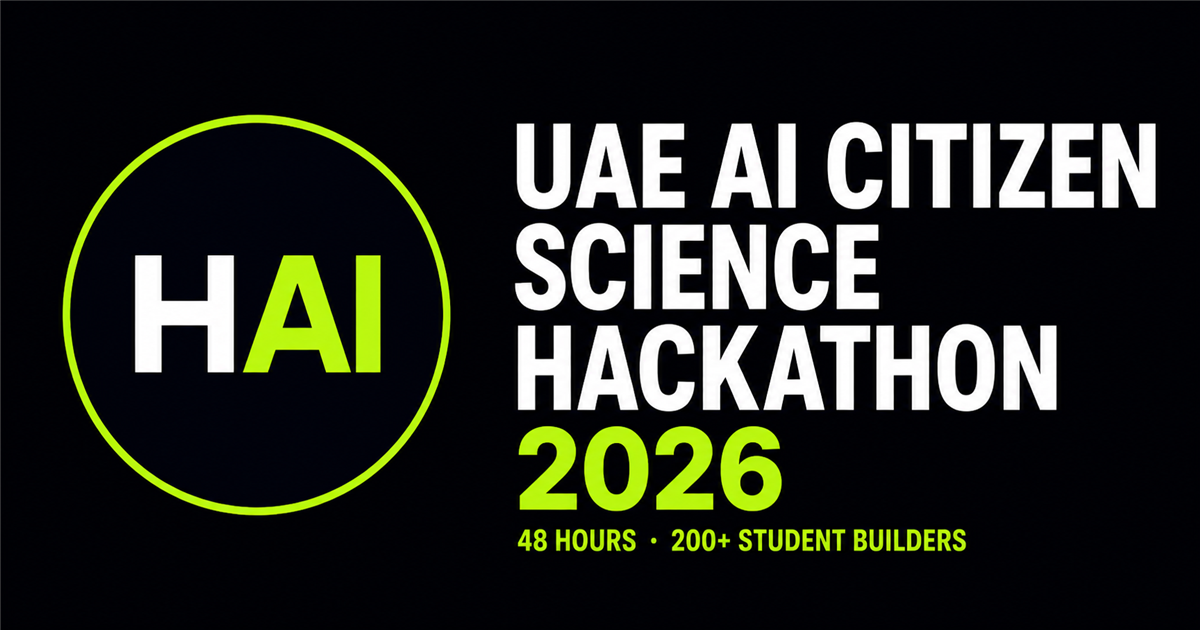
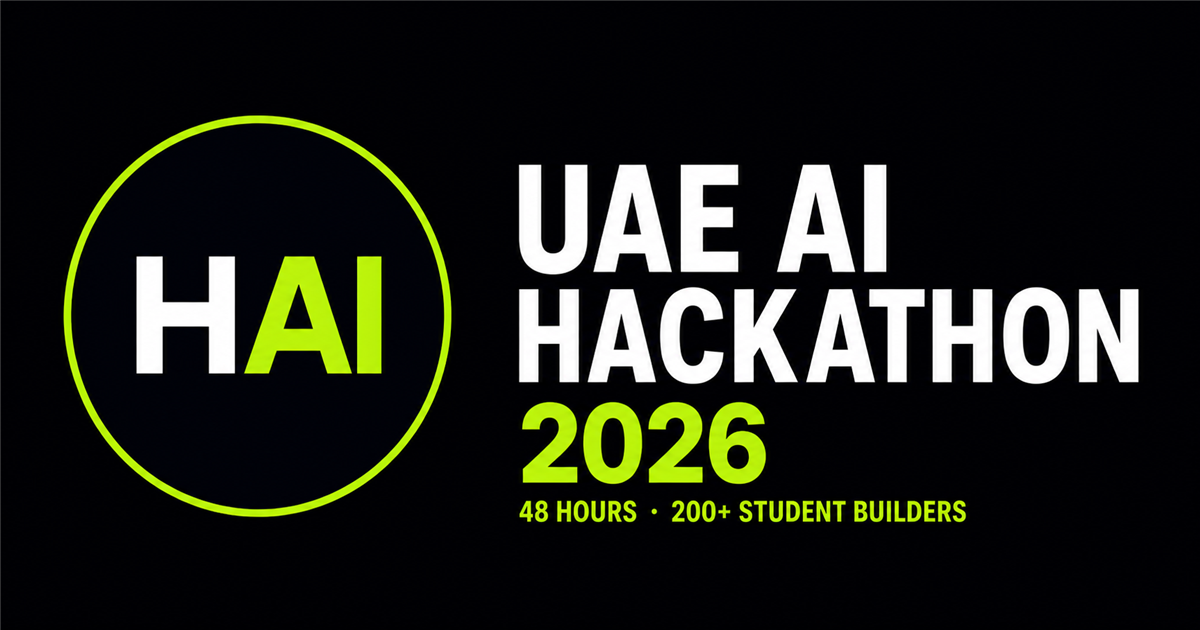
design changes regarding navbar

diff --git a/about.html b/about.html
@@ -4,10 +4,10 @@
   <meta charset="utf-8">
   <meta name="viewport" content="width=device-width,initial-scale=1">
   <title>About | HumAIne.ae</title>
-  <meta name="description" content="Meet the founders behind HumAIne and learn about the team creating the UAE AI Citizen Science Hackathon.">
+  <meta name="description" content="Meet the founders behind HumAIne and learn about the team creating the UAE AI Hackathon.">
   <link rel="canonical" href="https://humaine.ae/about.html">
-  <meta property="og:type" content="website"><meta property="og:title" content="About HumAIne"><meta property="og:description" content="Meet the team behind the UAE AI Citizen Science Hackathon."><meta property="og:image" content="https://humaine.ae/assets/og-preview.png"><meta property="og:url" content="https://humaine.ae/about.html"><meta property="og:site_name" content="HumAIne">
-  <meta name="twitter:card" content="summary_large_image"><meta name="twitter:title" content="About HumAIne"><meta name="twitter:description" content="Meet the team behind the UAE AI Citizen Science Hackathon."><meta name="twitter:image" content="https://humaine.ae/assets/og-preview.png">
+  <meta property="og:type" content="website"><meta property="og:title" content="About HumAIne"><meta property="og:description" content="Meet the team behind the UAE AI Hackathon."><meta property="og:image" content="https://humaine.ae/assets/og-preview.png"><meta property="og:url" content="https://humaine.ae/about.html"><meta property="og:site_name" content="HumAIne">
+  <meta name="twitter:card" content="summary_large_image"><meta name="twitter:title" content="About HumAIne"><meta name="twitter:description" content="Meet the team behind the UAE AI Hackathon."><meta name="twitter:image" content="https://humaine.ae/assets/og-preview.png">
   <link rel="icon" type="image/png" href="favicon.png">
   <link rel="stylesheet" href="styles.css">
 </head>

diff --git a/terms.html b/terms.html
@@ -24,7 +24,7 @@
         <h1>Terms &amp; Conditions.</h1>
         <p class="legal-date">Last updated: August 14, 2026</p>
         <h2>Using this website and joining the event</h2>
-        <p>By using this website or registering for the AI Citizen Science Hackathon, you agree to these terms. Event participation is open only to applicants who meet the eligibility requirements published by HumAIne.ae. Participants under 18 may be required to provide consent from a parent or legal guardian.</p>
+        <p>By using this website or registering for the AI Hackathon, you agree to these terms. Event participation is open only to applicants who meet the eligibility requirements published by HumAIne.ae. Participants under 18 may be required to provide consent from a parent or legal guardian.</p>
         <p>Registration does not guarantee acceptance or attendance. Places may be limited, and HumAIne.ae may verify information, select participants, organize teams, and update the schedule, venue, format, challenge, prizes, or event rules when reasonably necessary. Material changes will be communicated through the available contact details.</p>
         <p>Participants must act respectfully, follow venue and safety rules, comply with applicable law, and submit original work or properly disclose third-party tools and materials. HumAIne.ae may remove anyone whose conduct is unsafe, disruptive, dishonest, unlawful, or harmful to other participants.</p>
         <p>Participants retain ownership of their original project work. By taking part, participants allow HumAIne.ae to display project names, descriptions, demonstrations, photos, and recordings for event administration, reporting, and non-commercial promotion, subject to applicable consent and privacy requirements.</p>

diff --git a/index.html b/index.html
@@ -3,17 +3,17 @@
 <head>
   <meta charset="utf-8">
   <meta name="viewport" content="width=device-width,initial-scale=1">
-  <title>HumAIne | UAE AI Citizen Science Hackathon 2026</title>
-  <meta name="description" content="Join the HumAIne UAE AI Citizen Science Hackathon 2026—a free 48-hour event for high-school and university students building real AI solutions.">
+  <title>HumAIne | UAE AI Hackathon 2026</title>
+  <meta name="description" content="Join the HumAIne UAE AI Hackathon 2026—a free 48-hour event for high-school and university students building real AI solutions.">
   <link rel="canonical" href="https://humaine.ae/">
   <meta property="og:type" content="website">
-  <meta property="og:title" content="HumAIne | UAE AI Citizen Science Hackathon">
+  <meta property="og:title" content="HumAIne | UAE AI Hackathon">
   <meta property="og:description" content="48 Hours. 200+ Student Builders. Real AI Solutions. Apply now!">
   <meta property="og:image" content="https://humaine.ae/assets/og-preview.png">
   <meta property="og:image:width" content="1200"><meta property="og:image:height" content="630">
   <meta property="og:url" content="https://humaine.ae/"><meta property="og:site_name" content="HumAIne">
   <meta name="twitter:card" content="summary_large_image">
-  <meta name="twitter:title" content="HumAIne | UAE AI Citizen Science Hackathon">
+  <meta name="twitter:title" content="HumAIne | UAE AI Hackathon">
   <meta name="twitter:description" content="Build ideas that move the UAE forward. Register your team.">
   <meta name="twitter:image" content="https://humaine.ae/assets/og-preview.png">
   <link rel="icon" type="image/png" href="favicon.png">

diff --git a/privacy.html b/privacy.html
@@ -24,7 +24,7 @@
         <h1>Privacy Policy.</h1>
         <p class="legal-date">Last updated: August 14, 2026</p>
         <h2>How we handle your information</h2>
-        <p>HumAIne.ae may collect information that you choose to provide when you contact us or register for the AI Citizen Science Hackathon, including your name, email address, phone number, school or university, age or educational level, and team or project details.</p>
+        <p>HumAIne.ae may collect information that you choose to provide when you contact us or register for the AI Hackathon, including your name, email address, phone number, school or university, age or educational level, and team or project details.</p>
         <p>We use this information to manage registrations, communicate event updates, answer enquiries, organize teams and judging, maintain event safety, and administer certificates or prizes. We only use personal information for the purpose for which it was collected or where otherwise permitted by applicable UAE law.</p>
         <p>Registration may be handled through Google Forms. Information submitted through that service is also subject to Google’s privacy practices. We may share relevant information with event venues, judges, mentors, service providers, or partners only where reasonably necessary to operate the event. We do not sell personal information.</p>
         <p>We retain information only for as long as reasonably required for the event, our legal obligations, and legitimate administrative records. We take reasonable measures to protect it, although no online system can be guaranteed completely secure.</p>

diff --git a/contact.html b/contact.html
@@ -4,10 +4,10 @@
   <meta charset="utf-8">
   <meta name="viewport" content="width=device-width,initial-scale=1">
   <title>Contact | HumAIne.ae</title>
-  <meta name="description" content="Contact HumAIne with questions about participation or discuss sponsoring the UAE AI Citizen Science Hackathon.">
+  <meta name="description" content="Contact HumAIne with questions about participation or discuss sponsoring the UAE AI Hackathon.">
   <link rel="canonical" href="https://humaine.ae/contact.html">
   <meta property="og:type" content="website"><meta property="og:title" content="Contact HumAIne"><meta property="og:description" content="Questions about participating or partnering? Contact the HumAIne team."><meta property="og:image" content="https://humaine.ae/assets/og-preview.png"><meta property="og:url" content="https://humaine.ae/contact.html"><meta property="og:site_name" content="HumAIne">
-  <meta name="twitter:card" content="summary_large_image"><meta name="twitter:title" content="Contact HumAIne"><meta name="twitter:description" content="Contact the team behind the UAE AI Citizen Science Hackathon."><meta name="twitter:image" content="https://humaine.ae/assets/og-preview.png">
+  <meta name="twitter:card" content="summary_large_image"><meta name="twitter:title" content="Contact HumAIne"><meta name="twitter:description" content="Contact the team behind the UAE AI Hackathon."><meta name="twitter:image" content="https://humaine.ae/assets/og-preview.png">
   <link rel="icon" type="image/png" href="favicon.png">
   <link rel="stylesheet" href="styles.css">
 </head>

diff --git a/styles.css b/styles.css
@@ -7,7 +7,7 @@ body{margin:0;background:var(--night);color:var(--ink);font-family:'DM Sans',san
 body:before{content:'';position:fixed;inset:0;pointer-events:none;opacity:.22;background-image:linear-gradient(rgba(255,255,255,.025) 1px,transparent 1px),linear-gradient(90deg,rgba(255,255,255,.025) 1px,transparent 1px);background-size:44px 44px}
 a{color:inherit}
 .container{width:min(var(--max),calc(100% - 40px));margin:auto}
-.site-header{position:relative;z-index:5;border-bottom:1px solid var(--line);background:rgba(8,11,13,.88);backdrop-filter:blur(18px)}
+.site-header{position:sticky;top:0;z-index:100;border-bottom:1px solid var(--line);background:rgba(8,11,13,.94);backdrop-filter:blur(18px)}
 .site-header .container{height:82px;display:flex;align-items:center;justify-content:space-between;gap:24px}
 .brand{font:700 1.2rem 'Space Grotesk';text-decoration:none;letter-spacing:-.04em}.brand span{color:var(--lime)}
 .main-nav{display:flex;align-items:center;gap:28px}.main-nav a{text-decoration:none;color:var(--soft);font-size:.9rem;font-weight:600}.main-nav a:hover,.main-nav a[aria-current=page]{color:var(--ink)}

diff --git a/hackathon.html b/hackathon.html
@@ -8,7 +8,7 @@
     <link rel="canonical" href="https://humaine.ae/hackathon.html" />
     <meta property="og:type" content="website" />
     <meta property="og:title" content="Register | HumAIne AI Hackathon UAE" />
-    <meta property="og:description" content="Explore the roadmap and register free for the UAE AI Citizen Science Hackathon." />
+    <meta property="og:description" content="Explore the roadmap and register free for the UAE AI Hackathon." />
     <meta property="og:image" content="https://humaine.ae/assets/og-preview.png" />
     <meta property="og:url" content="https://humaine.ae/hackathon.html" />
     <meta property="og:site_name" content="HumAIne" />

diff --git a/readme.md b/readme.md
@@ -1,6 +1,6 @@
 # HumAIne.ae
 
-Front-end website built for the HumAIne.ae AI Citizen Science Hackathon.
+Front-end website built for the HumAIne.ae AI Hackathon.
 
 The website provides information about the event, its founders, registration, timeline, sponsors, media, and contact details.
 
